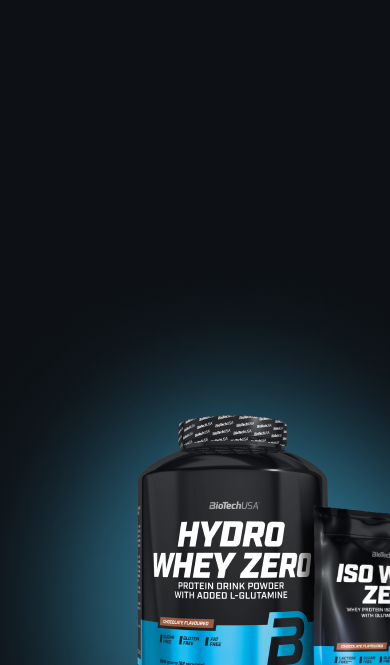
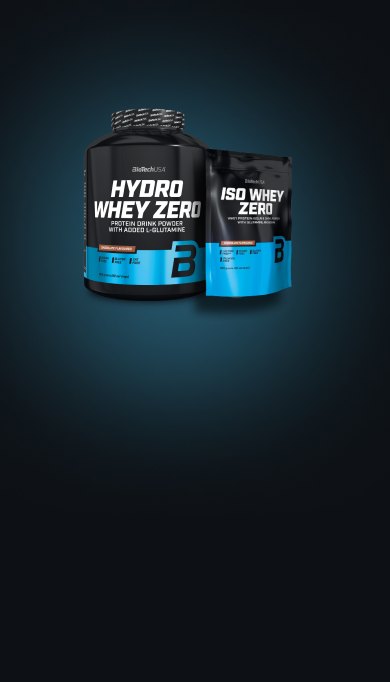
add new pages

diff --git a/pages/checkout-short.vue b/pages/checkout-short.vue
@@ -1,0 +1,54 @@
+<template>
+    <div>
+        <div class="container">
+            <div class="checkout-back">
+                <LinkMore :text="'Назад'" :direction="'left'" :href="'/'"></LinkMore>
+            </div>
+            <div class="checkout-finish-ttl">
+                Заказать в один клик
+            </div>
+            <div class="checkout-finish-txt">
+                Оставьте Ваш номер телефона и наш менеджер перезвонит Вам в ближайшее время, для уточнения деталей заказа
+            </div> 
+            <div class="checkout-finish-input checkout-input checkout-input--phone">
+                <div>
+                    <label for="phone">Телефон*</label>
+                    <VuePhoneNumberInput
+                        v-model="phoneNumber"
+                        show-code-on-list
+                        default-country-code="UA"
+                        :no-flags="true"
+                        :translations="{
+                            countrySelectorLabel: 'Код страны',
+                            countrySelectorError: 'Choisir un pays',
+                            phoneNumberLabel: 'Номер телефона',
+                            example: 'Пример :'
+                        }"
+                    />
+                </div>
+                <b-button variant="primary">Отправить</b-button>
+            </div> 
+        </div>
+    </div>
+</template>
+
+<script>
+import VuePhoneNumberInput from 'vue-phone-number-input';
+import 'vue-phone-number-input/dist/vue-phone-number-input.css';
+import LinkMore from '~~/components/common/LinkMore'
+
+export default {
+    components: {
+        VuePhoneNumberInput,
+        LinkMore
+    },
+    data() {
+        return {
+            selectfield: null,
+            selectcity: null,
+            selectpost: null,
+            phoneNumber: null
+        }
+    }
+}
+</script>

diff --git a/assets/scss/pages/_checkout.scss b/assets/scss/pages/_checkout.scss
@@ -150,4 +150,71 @@
             } 
         }
     }
+
+    &-back {
+        margin-top: 60px;
+    }
+
+    &-finish {
+        &-ttl {
+            margin-top: 160px;
+            font-weight: 600;
+            font-size: 36px;
+            line-height: 140%;
+            text-align: center;
+            margin-bottom: 20px;
+
+            @media (max-width: 768px) {
+                margin-top: 60px;
+                font-size: 26px;
+                line-height: 1;
+            }
+        }
+
+        &-txt {
+            font-weight: 500;
+            font-size: 16px;
+            line-height: 22px;
+            color: #9EA0A1;
+            max-width: 680px;
+            margin: 0 auto;
+            text-align: center;
+        }
+
+        &-input {
+            max-width: 520px;
+            margin: 80px auto 160px;
+            display: flex;
+            align-items: flex-end;
+            justify-content: center;
+
+            @media (max-width: 768px) {
+                flex-direction: column;
+                margin: 40px auto 100px;
+                align-items: center;
+            }
+
+            .btn {
+                height: 48px;
+                min-width: 200px;
+                margin-left: 16px;
+
+                @media (max-width: 768px) {
+                    min-width: 270px;
+                    margin-top: 10px;
+                    margin-left: 0;
+                }
+            }
+        }
+
+        &-btn {
+            text-align: center;
+            margin-top: 30px;
+            margin-bottom: 200px;
+
+            @media (max-width: 768px) {
+                margin-bottom: 100px;
+            }
+        }
+    }
 }

diff --git a/pages/checkout-order.vue b/pages/checkout-order.vue
@@ -1,0 +1,18 @@
+<template>
+    <div>
+        <div class="container">
+            <div class="checkout-finish-ttl">
+                Спасибо, ваш заказ был успешно оформлен!
+            </div>
+            <div class="checkout-finish-txt">
+                Наш менеджер свяжется с Вами в ближайшее время!
+            </div>
+            <div class="checkout-finish-btn">
+                <b-button variant="primary">Вернуться на главную</b-button>
+            </div> 
+        </div>
+    </div>
+</template>
+
+<script>
+</script>

diff --git a/assets/scss/components/_hero.scss b/assets/scss/components/_hero.scss
@@ -39,6 +39,10 @@
         color: rgba(255, 255, 255, 0.6);
         margin-bottom: 50px;
 
+        @media (max-width: 768px) {
+            margin-bottom: 30px;
+        }
+
         span {
             color: white;
         }
@@ -55,6 +59,11 @@
         display: flex;
         align-items: center;
         height: 580px;
+
+        @media (max-width: 768px) {
+            align-items: flex-end;
+            height: 625px;
+        }
     }
 
     &-date {

diff --git a/pages/checkout.vue b/pages/checkout.vue
@@ -41,7 +41,7 @@
                             v-model="phoneNumber"
                             show-code-on-list
                             default-country-code="UA"
-                            no-flags="true"
+                            :no-flags="true"
                             :translations="{
                                 countrySelectorLabel: 'Код страны',
                                 countrySelectorError: 'Choisir un pays',
